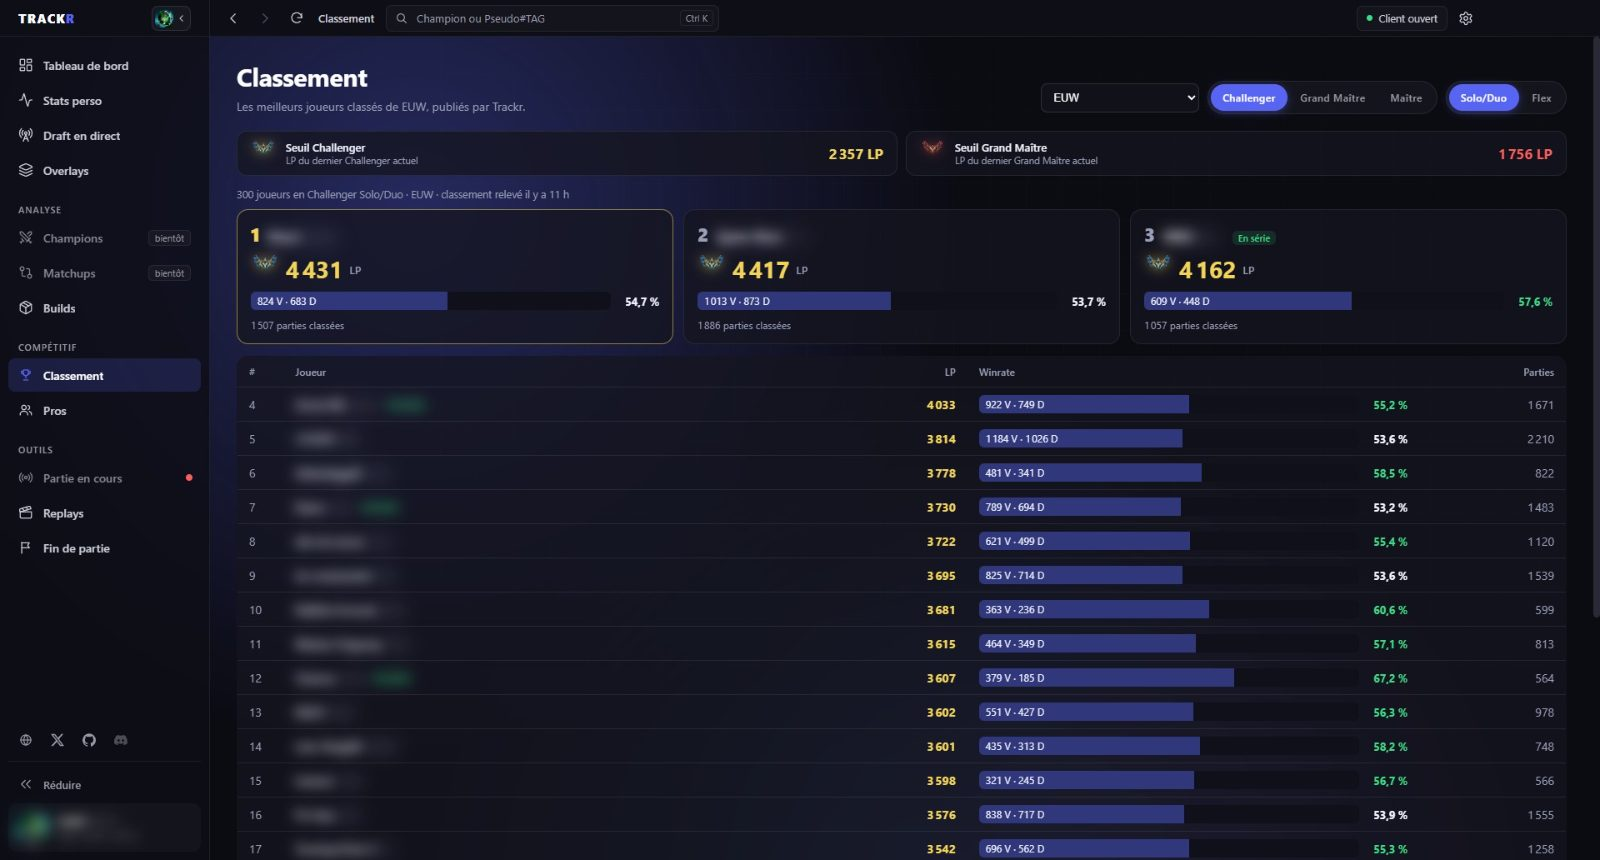
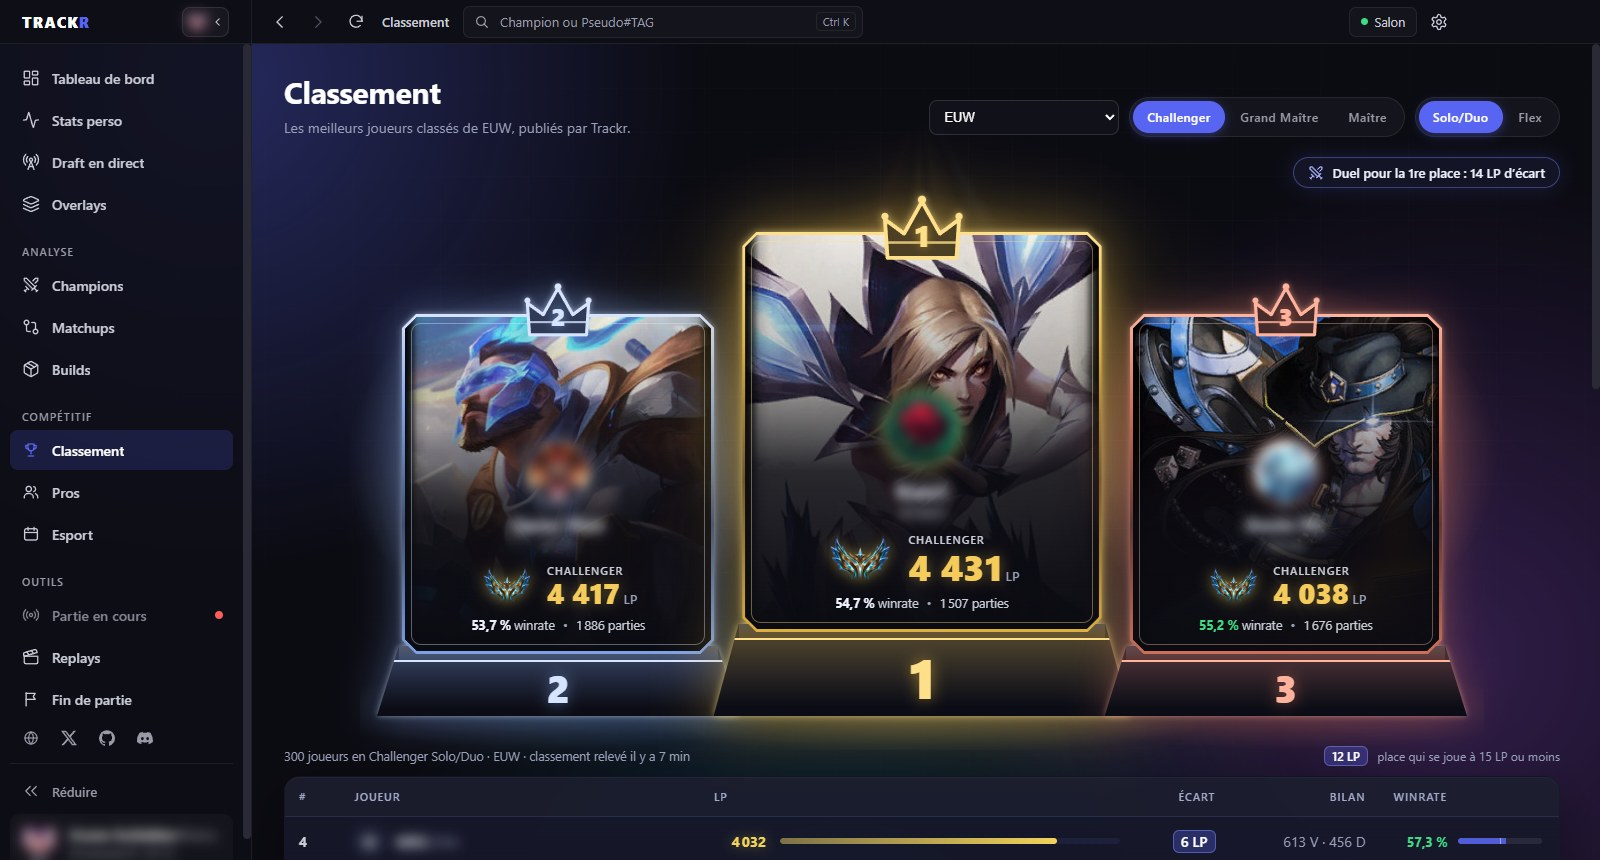
Nouvelle capture du classement

diff --git a/index.html b/index.html
@@ -304,8 +304,8 @@ footer{position:relative;overflow:hidden;border-top:1px solid var(--border);padd
     <p class="lead">Regarde où en sont les meilleurs joueurs et ce que jouent les pros en SoloQ, mis à jour par Trackr.</p>
     <div class="duo">
       <figure>
-        <img class="shot" src="classement.jpg" width="1600" height="860" loading="lazy" alt="Page Classement : les trois premiers joueurs en Challenger, les seuils Challenger et Grand Maître, puis la liste avec LP et winrate.">
-        <figcaption><b>Classement.</b> Les meilleurs joueurs classés de ta région en Solo/Duo et en Flex, avec les seuils Challenger et Grand Maître.</figcaption>
+        <img class="shot" src="classement.jpg" width="1600" height="860" loading="lazy" alt="Page Classement : podium des trois premiers joueurs Challenger d'EUW avec leurs LP et leur winrate, puis le début de la liste avec l'écart en LP et le bilan.">
+        <figcaption><b>Classement.</b> Les meilleurs joueurs classés de ta région en Challenger, Grand Maître et Maître, en Solo/Duo et en Flex, avec l'écart en LP entre chaque place.</figcaption>
       </figure>
       <figure>
         <img class="shot" src="pros.jpg" width="1600" height="860" loading="lazy" alt="Page Pros : une carte par joueur pro avec son équipe, son rôle, ses LP et les champions joués.">
